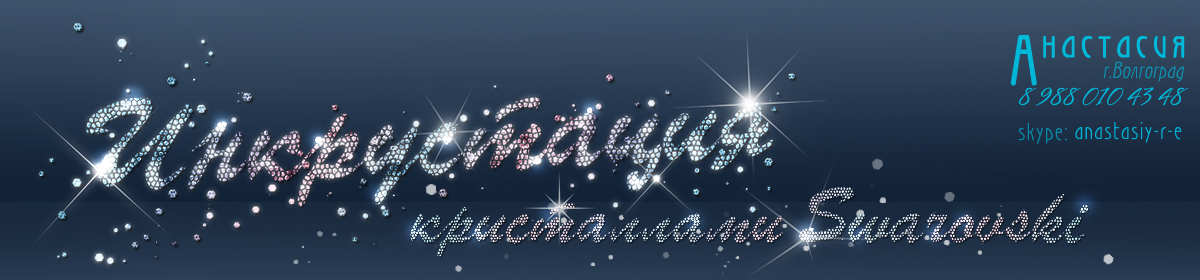
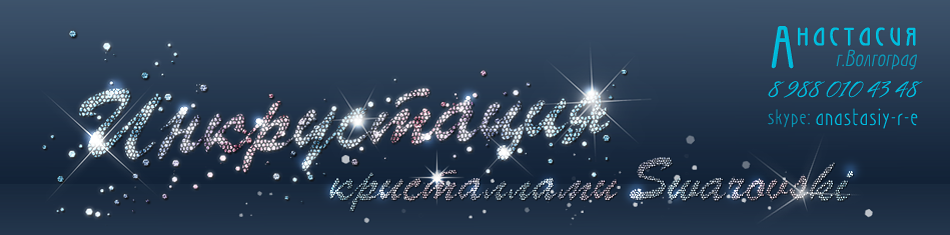
дизайн для мобилок

diff --git a/T034/Content/style.css b/T034/Content/style.css
@@ -24,7 +24,7 @@ body
     background-color: #53677b;
     background: url("pic/banner_line.png") repeat scroll 0 0 #fff;
     width: 100%;
-    height: 280px;
+    height: 235px;
     text-align: center;
     padding: 0 0 0 0;
 }
@@ -41,7 +41,7 @@ body
     background-color: #2b3e54;
     background: url("pic/bback.png") repeat scroll 0 0 #fff;
     width: 100%;
-    height: 40px;
+    height: 47px;
     padding: 0 0 0 0;
 }
 
